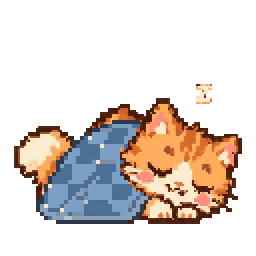
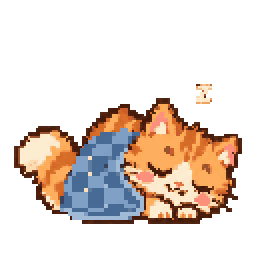
Art: bespoke tucked-in blanket composites, baby stage
Claude-Session: https://claude.ai/code/session_01VHDmFqWfMu4K7RDwHZmocH

Changed region(s): [[0.125, 0.4688, 0.5938, 0.875]]

diff --git a/art/tucked/comp.py b/art/tucked/comp.py
@@ -19,6 +19,9 @@ SP = (
     / "custom_components/virtual_pet/frontend/sprites"
 )
 WATER = {"duckling", "otter"}
+BLUISH = {
+    ("hermitcrab", "baby")
+}  # a pale blue shell: blanket = blue that differs from the original
 
 
 def comp(sp, st, cut, out):
@@ -31,6 +34,8 @@ def comp(sp, st, cut, out):
     if sp in WATER:
         orr, og, ob = o[..., 0], o[..., 1], o[..., 2]
         blue &= ~((o[..., 3] > 0) & (ob > orr + 8) & (ob >= og - 4))
+    if (sp, st) in BLUISH:
+        blue &= (o[..., 3] == 0) | (np.abs(t[..., :3] - o[..., :3]).sum(-1) > 70)
     bl = ndimage.binary_closing(blue[::4, ::4], structure=np.ones((3, 3)))
     bl = ndimage.binary_fill_holes(bl)
     lab, n = ndimage.label(bl)
